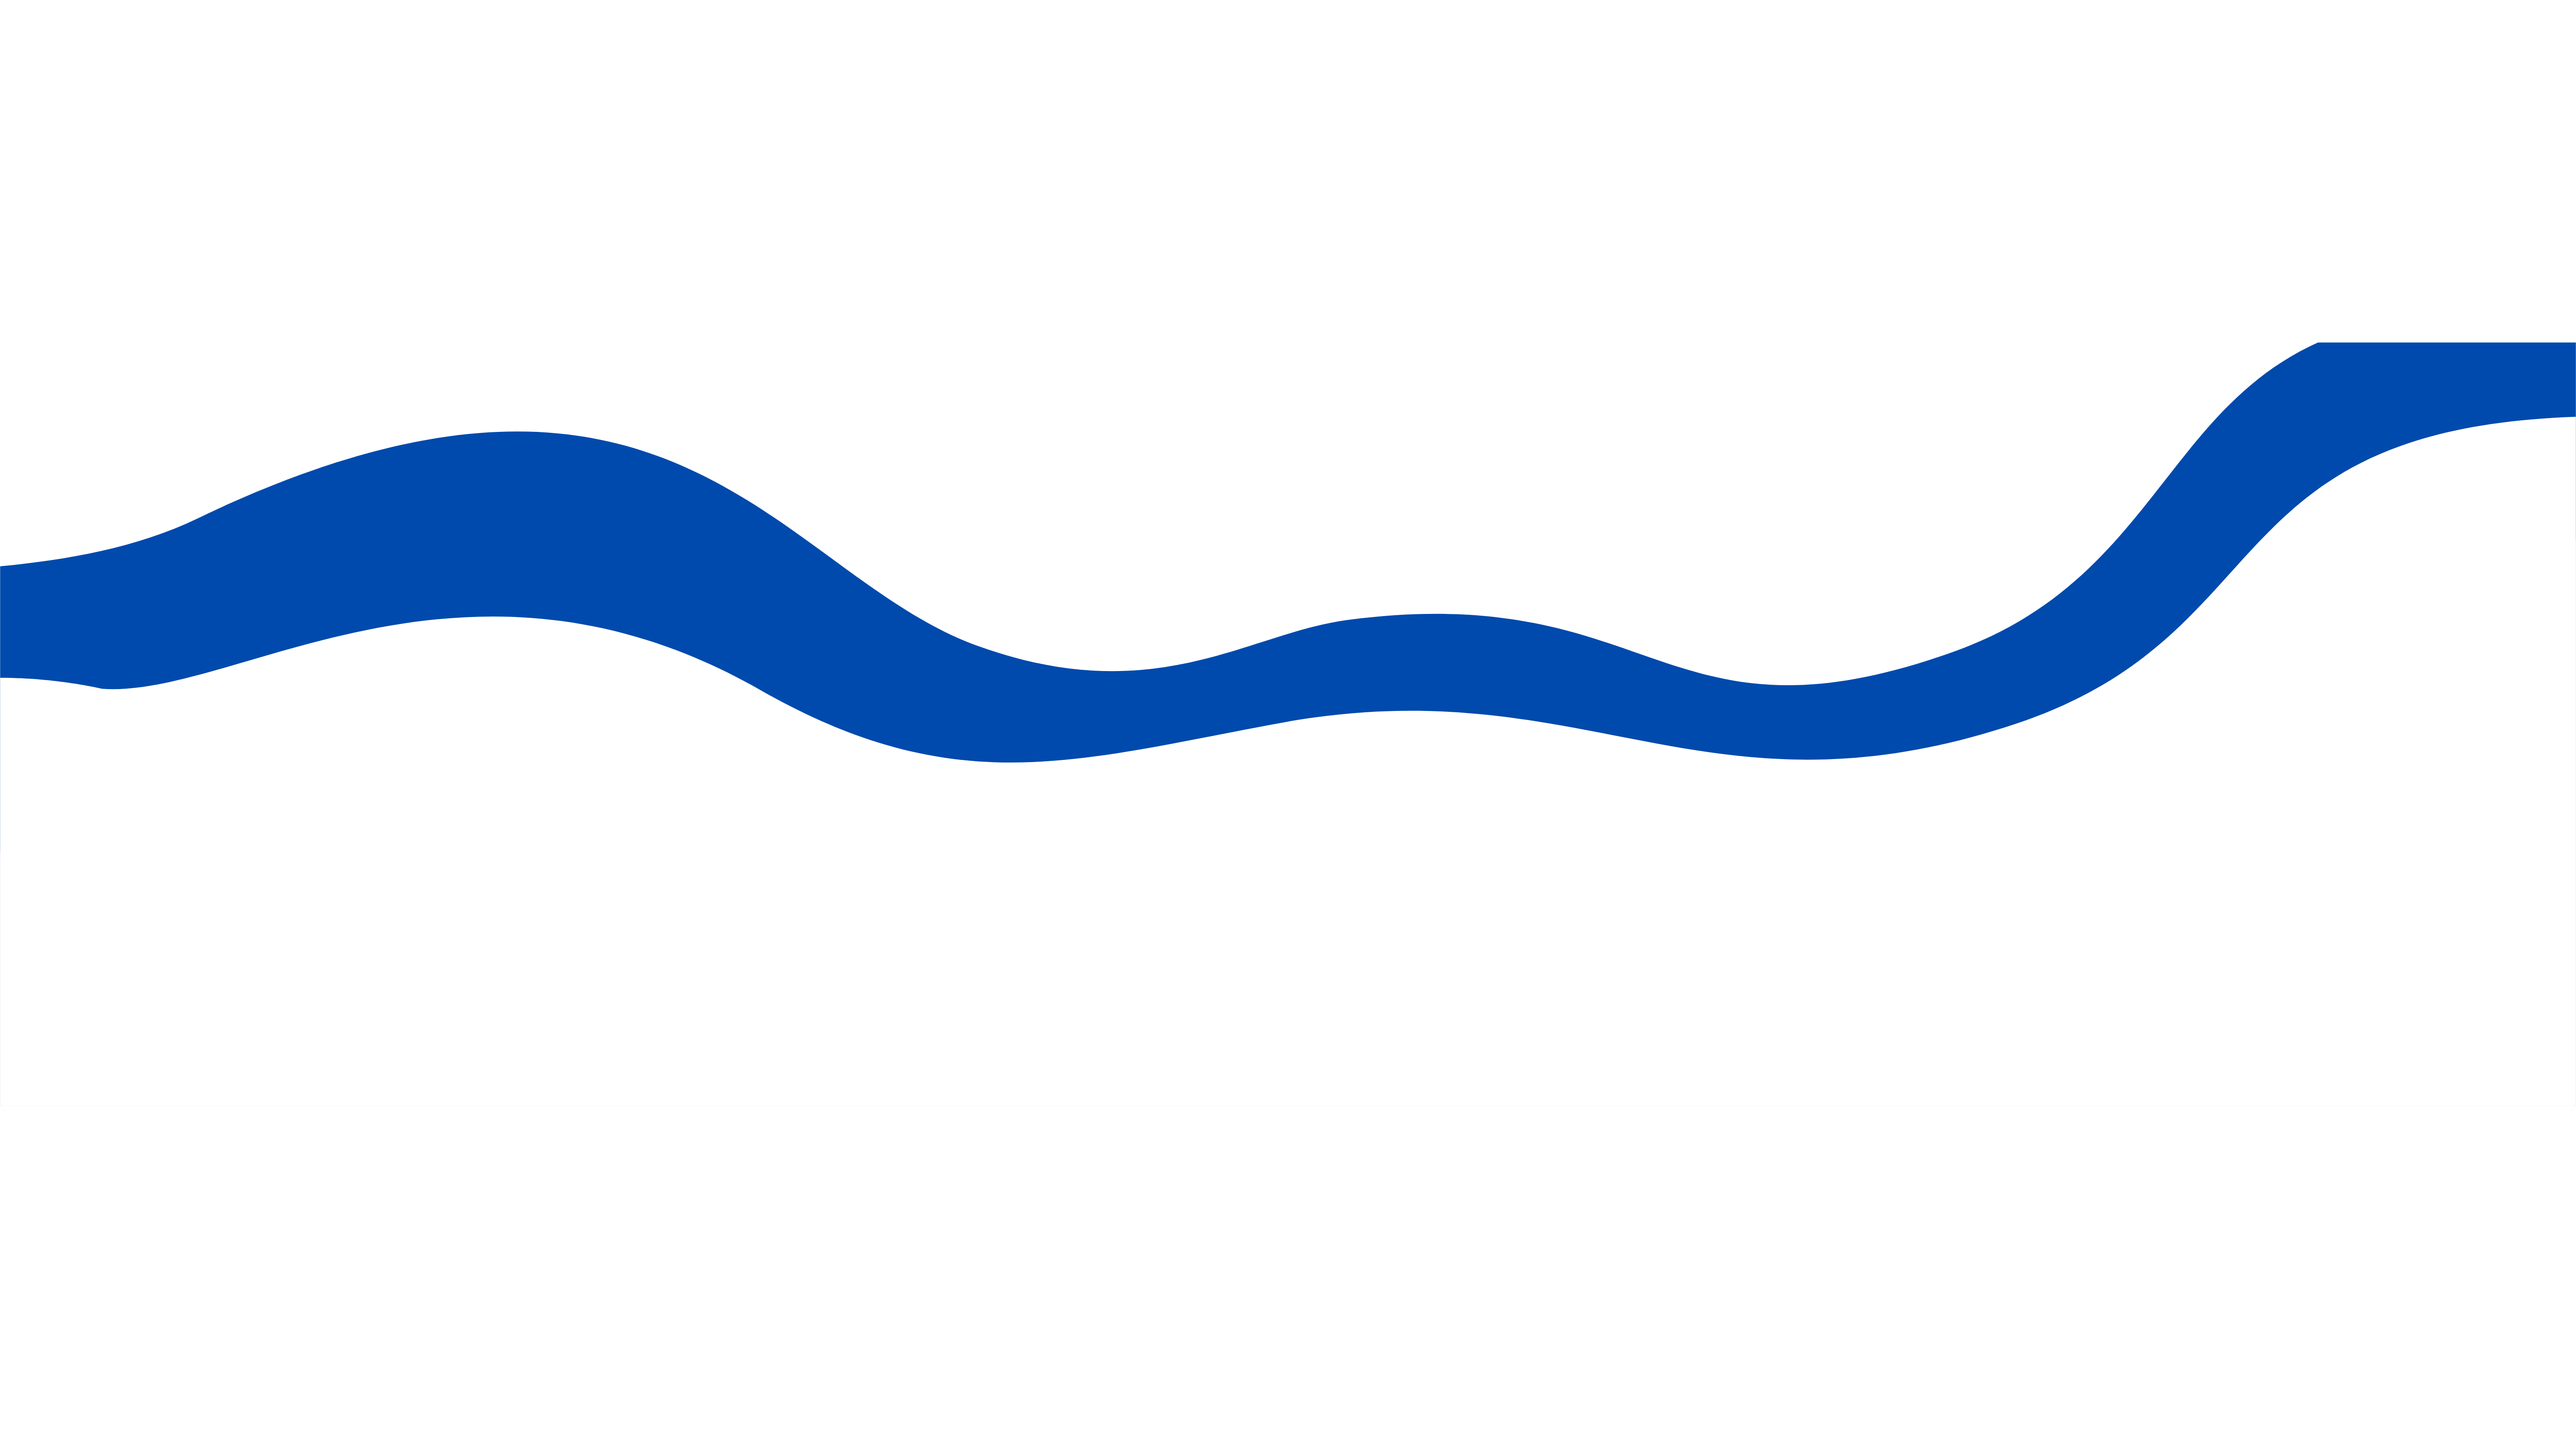
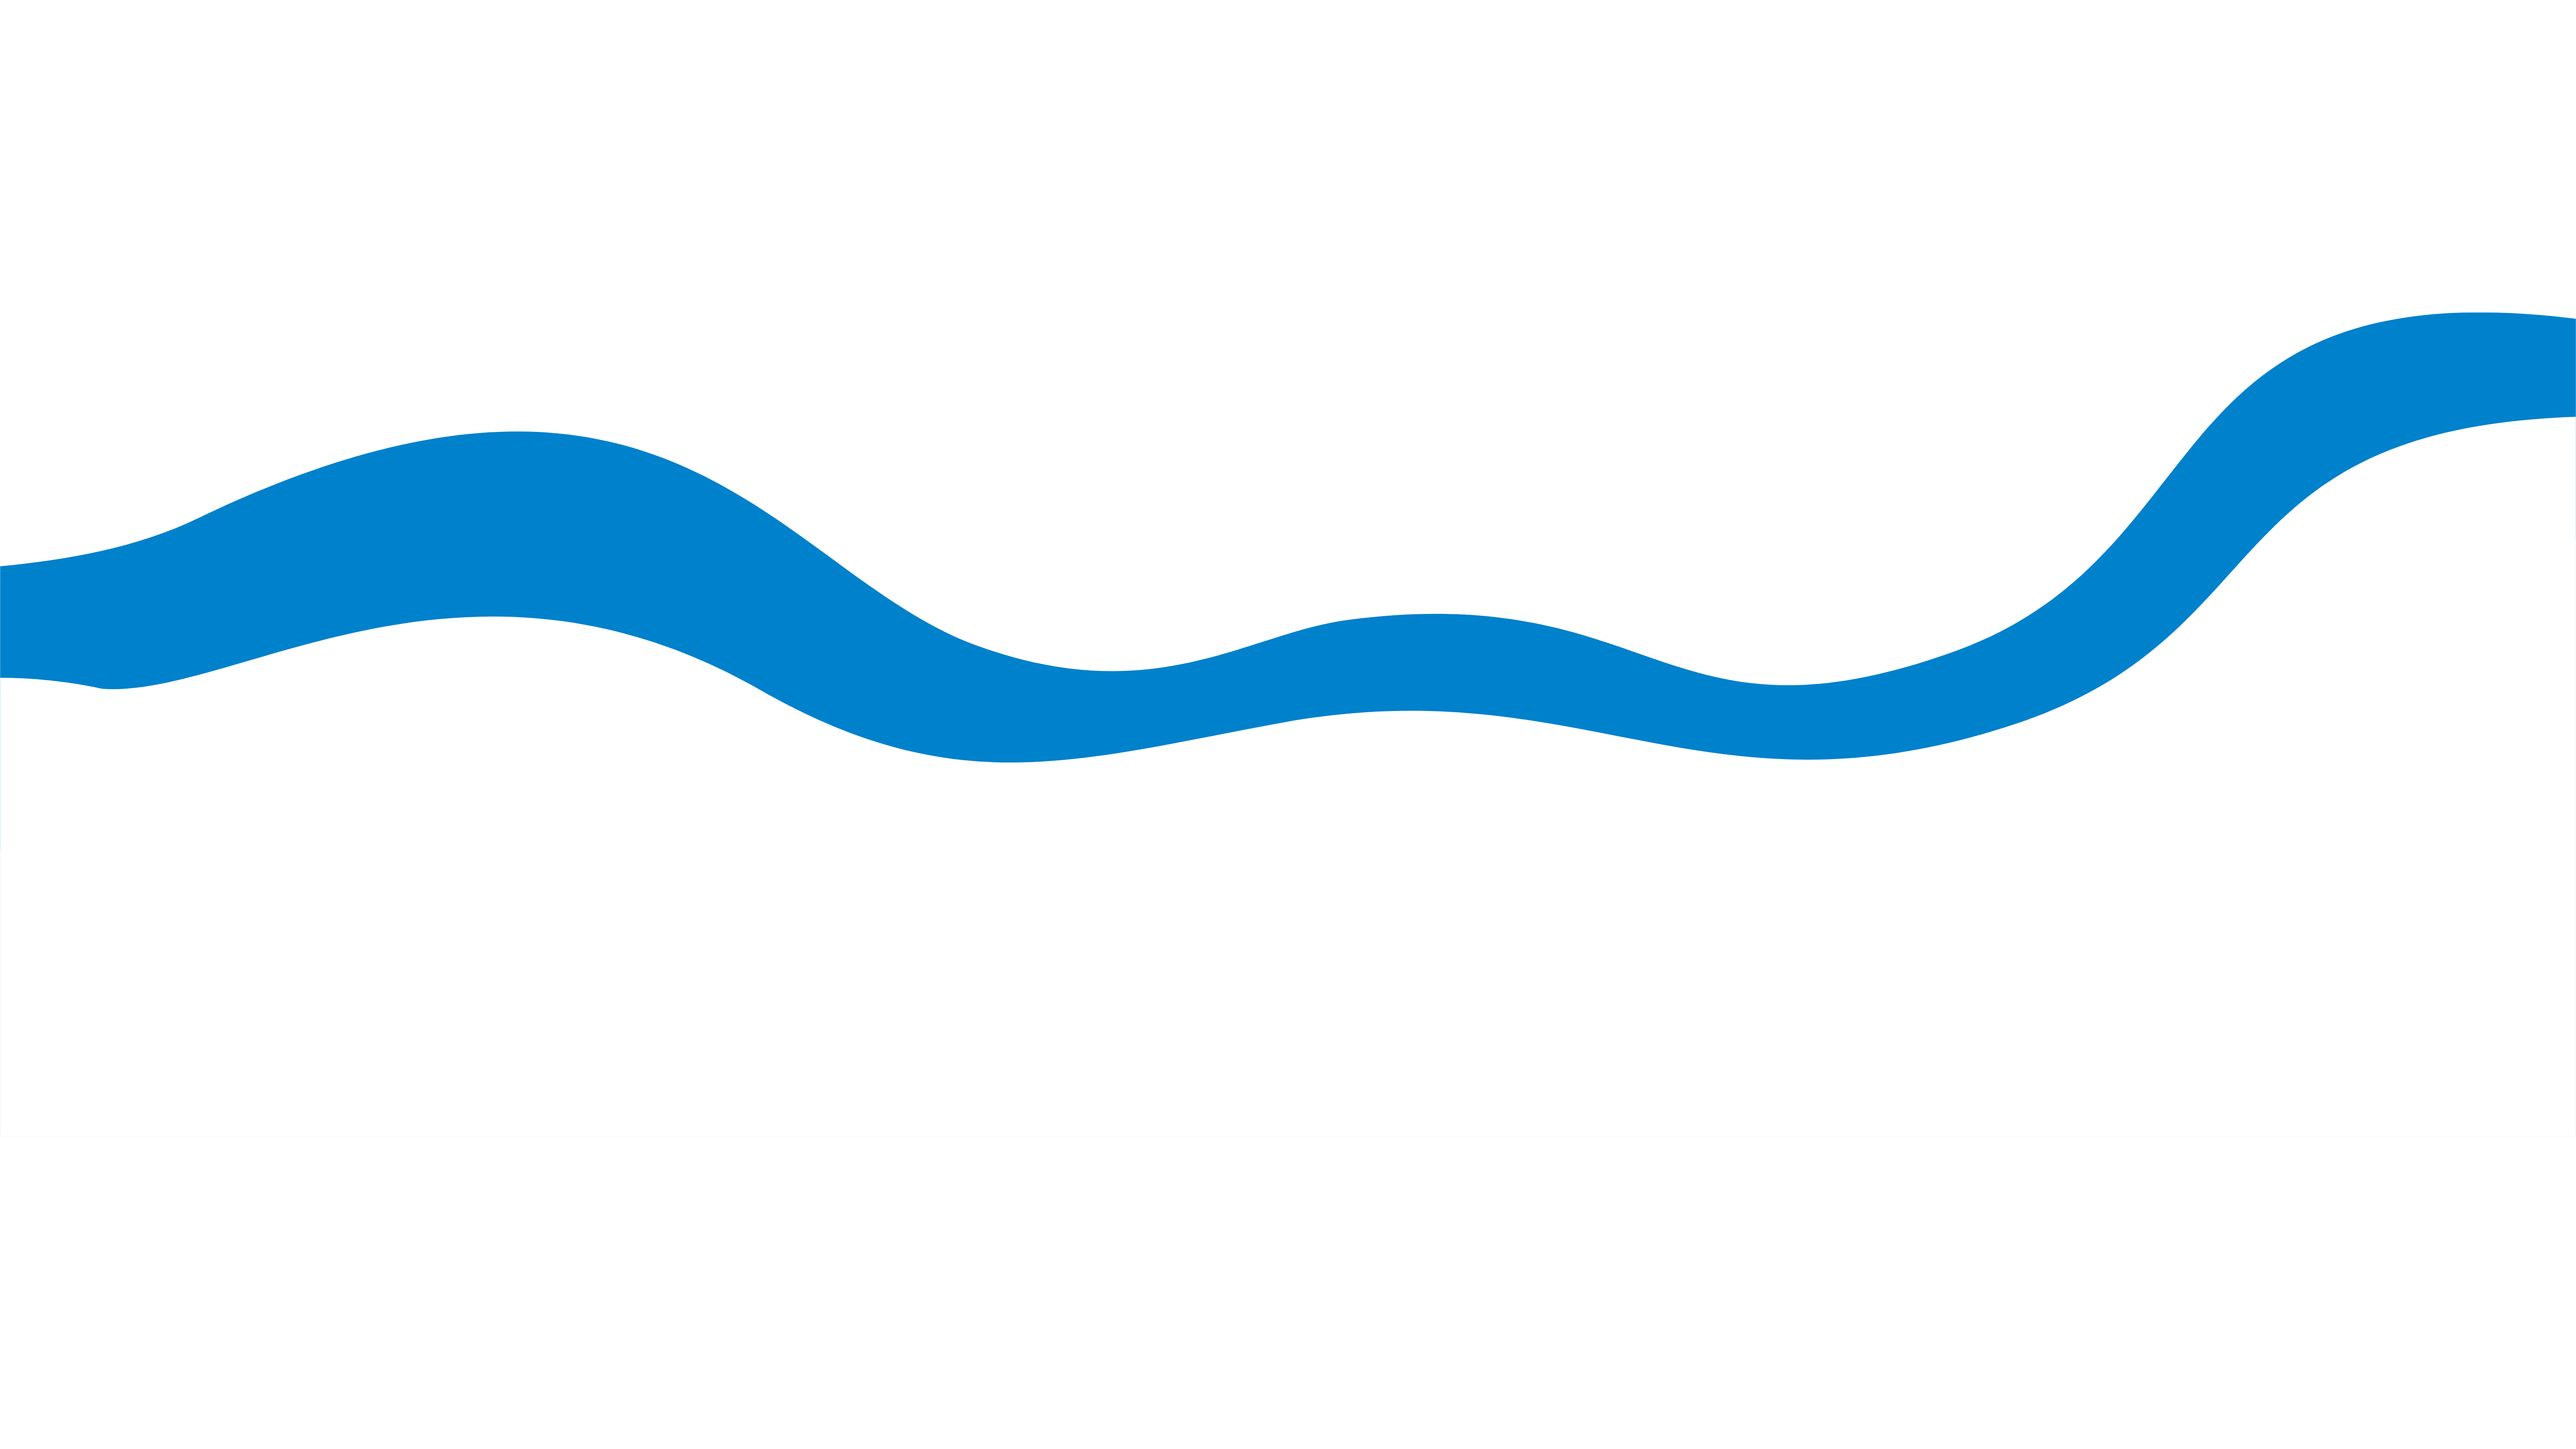
mudança de cores segundo o novo design

Changed region(s): [[0.0, 0.2178, 1.0, 0.5289]]

diff --git a/src/app/cadastro/index.tsx b/src/app/cadastro/index.tsx
@@ -29,7 +29,7 @@ export default function Index() {
             style={{position: 'absolute', backgroundColor: 'white', borderRadius: 25, top: 10, left: 10}}>
                 <FontAwesome6 name="circle-arrow-left" 
                     size={35} 
-                    color={gStyles.azul[500]} 
+                    color={gStyles.azul[200]} 
                     />
             </Pressable>
         </View>
@@ -43,28 +43,28 @@ export default function Index() {
             <View style={style.inputWrapper}>
                 <Text style={style.label}> Nome </Text>
                 <InputIcon placeholder="  Digite seu nome">
-                    <FontAwesome name="user" size={24} color={gStyles.azul[500]} />
+                    <FontAwesome name="user" size={24} color={gStyles.azul[200]} />
                 </InputIcon>
             </View>
 
             <View style={style.inputWrapper}>
                 <Text style={style.label}> Email </Text>
                 <InputIcon placeholder="  Digite seu email">
-                    <FontAwesome name="envelope" size={24} color={gStyles.azul[500]} />
+                    <FontAwesome name="envelope" size={24} color={gStyles.azul[200]} />
                 </InputIcon>
             </View>
 
             <View style={style.inputWrapper}>
                 <Text style={style.label}> Senha </Text>
                 <InputSenha placeholder="Crie sua senha">
-                    <FontAwesome name="lock" size={24} color={gStyles.azul[500]} />
+                    <FontAwesome name="lock" size={24} color={gStyles.azul[200]} />
                 </InputSenha>
             </View>
 
             <View style={style.inputWrapper}>
                 <Text style={style.label}> Confirmar senha </Text>
                 <InputSenha placeholder="Digite a senha novamente">
-                    <FontAwesome name="lock" size={24} color={gStyles.azul[500]} />
+                    <FontAwesome name="lock" size={24} color={gStyles.azul[200  ]} />
                 </InputSenha>
             </View>
 

diff --git a/src/components/TextButton/style.ts b/src/components/TextButton/style.ts
@@ -4,7 +4,7 @@ import { StyleSheet } from "react-native";
 export const style = StyleSheet.create({
   containerPrimary: {
     paddingVertical: 5,
-    backgroundColor: gStyles.azul[500],
+    backgroundColor: gStyles.azul[200],
     borderRadius: 7,
     alignItems: "center",
   },
@@ -16,12 +16,12 @@ export const style = StyleSheet.create({
   containerSecondary: {
     paddingVertical: 5,
     borderWidth: 1,
-    borderColor: gStyles.azul[500],
+    borderColor: gStyles.azul[200],
     borderRadius: 7,
     alignItems: "center",
   },
   textSecondary: {
-    color: gStyles.azul[500],
+    color: gStyles.azul[200],
     fontWeight: "600",
   },
 });

diff --git a/src/components/InputSenha/index.tsx b/src/components/InputSenha/index.tsx
@@ -23,7 +23,7 @@ export function InputSenha({ children = <></>, ...props }) {
         <Feather
           name={mostrarSenha ? "eye" : "eye-off"}
           size={22}
-          color={gStyles.azul[500]}
+          color={gStyles.azul[200]}
         />
       </Pressable>
     </View>

diff --git a/src/app/cadastro/style.ts b/src/app/cadastro/style.ts
@@ -53,6 +53,6 @@ export const style = StyleSheet.create({
     fontSize: 15,
     borderRadius: 7,
     backgroundColor: gStyles.cinza[200],
-    borderColor: gStyles.azul[500]
+    borderColor: gStyles.azul[200]
   }
 });

diff --git a/src/style/gStyle.ts b/src/style/gStyle.ts
@@ -5,6 +5,7 @@ export const gStyles = {
     500: "#004aa9",
     400: "#0067EA",
     300: "#1077FB",
+    200: "#0081CC"
   },
   cinza: {
     600: "#313131",
